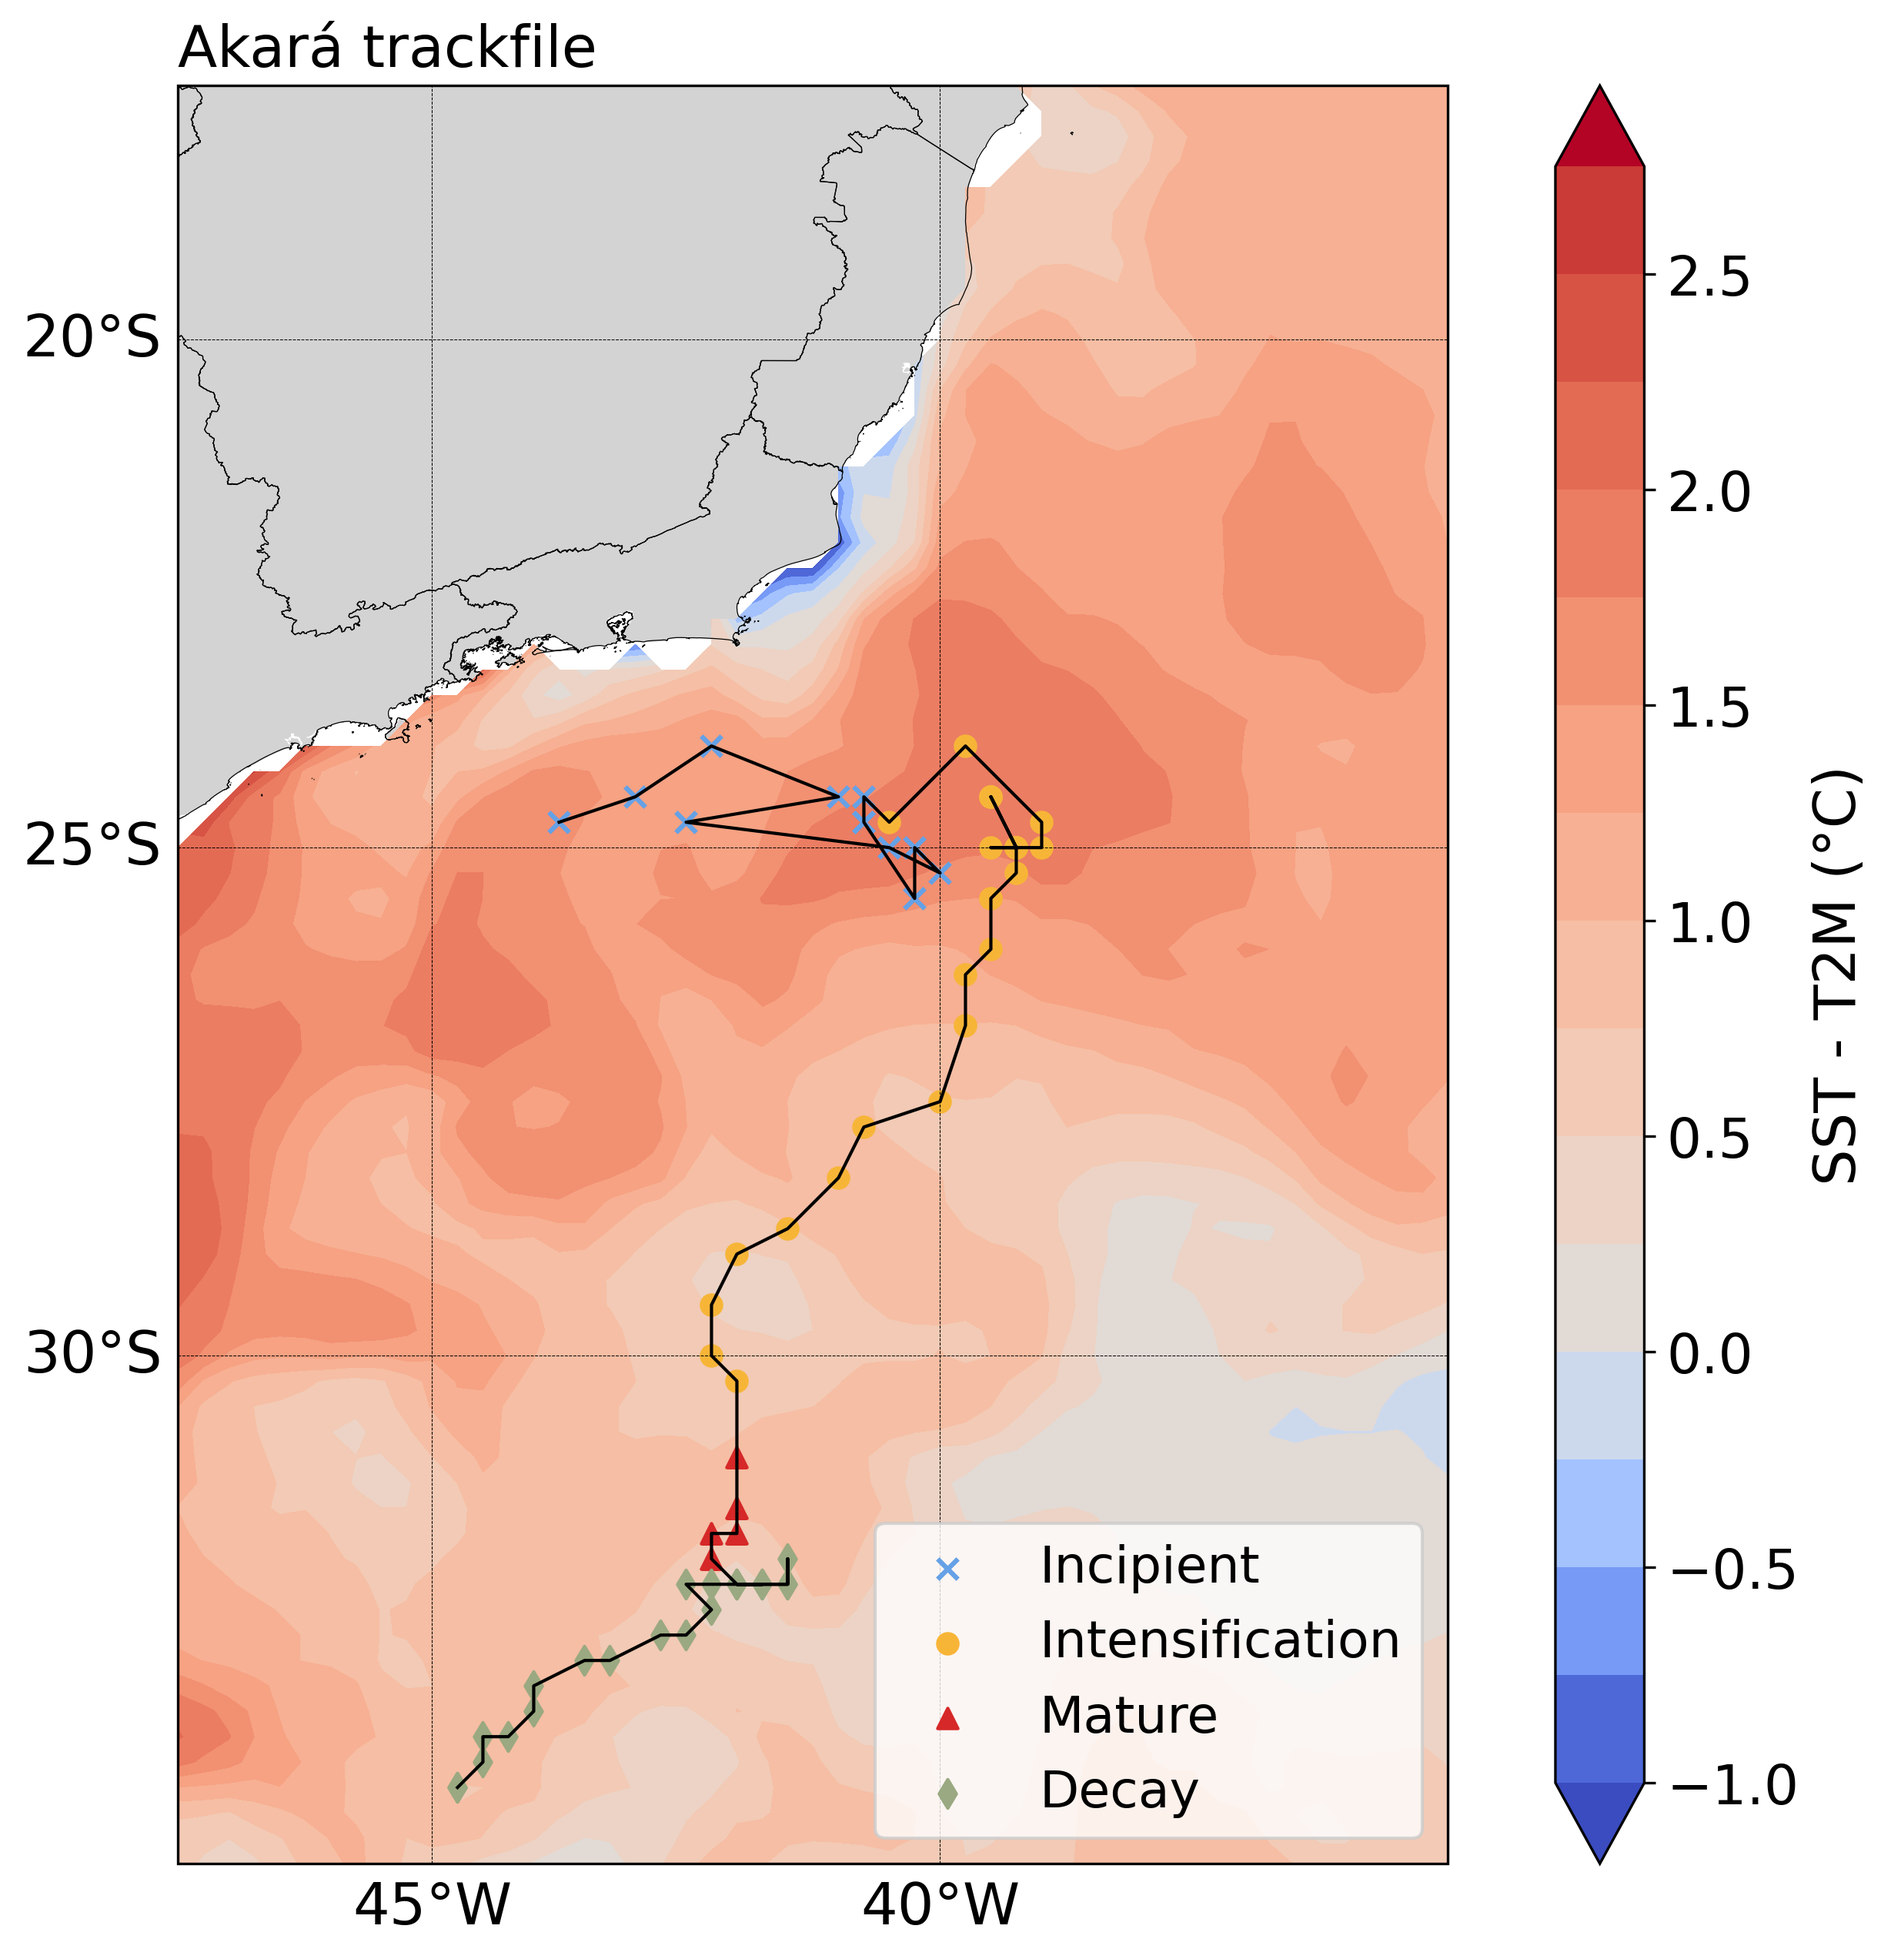
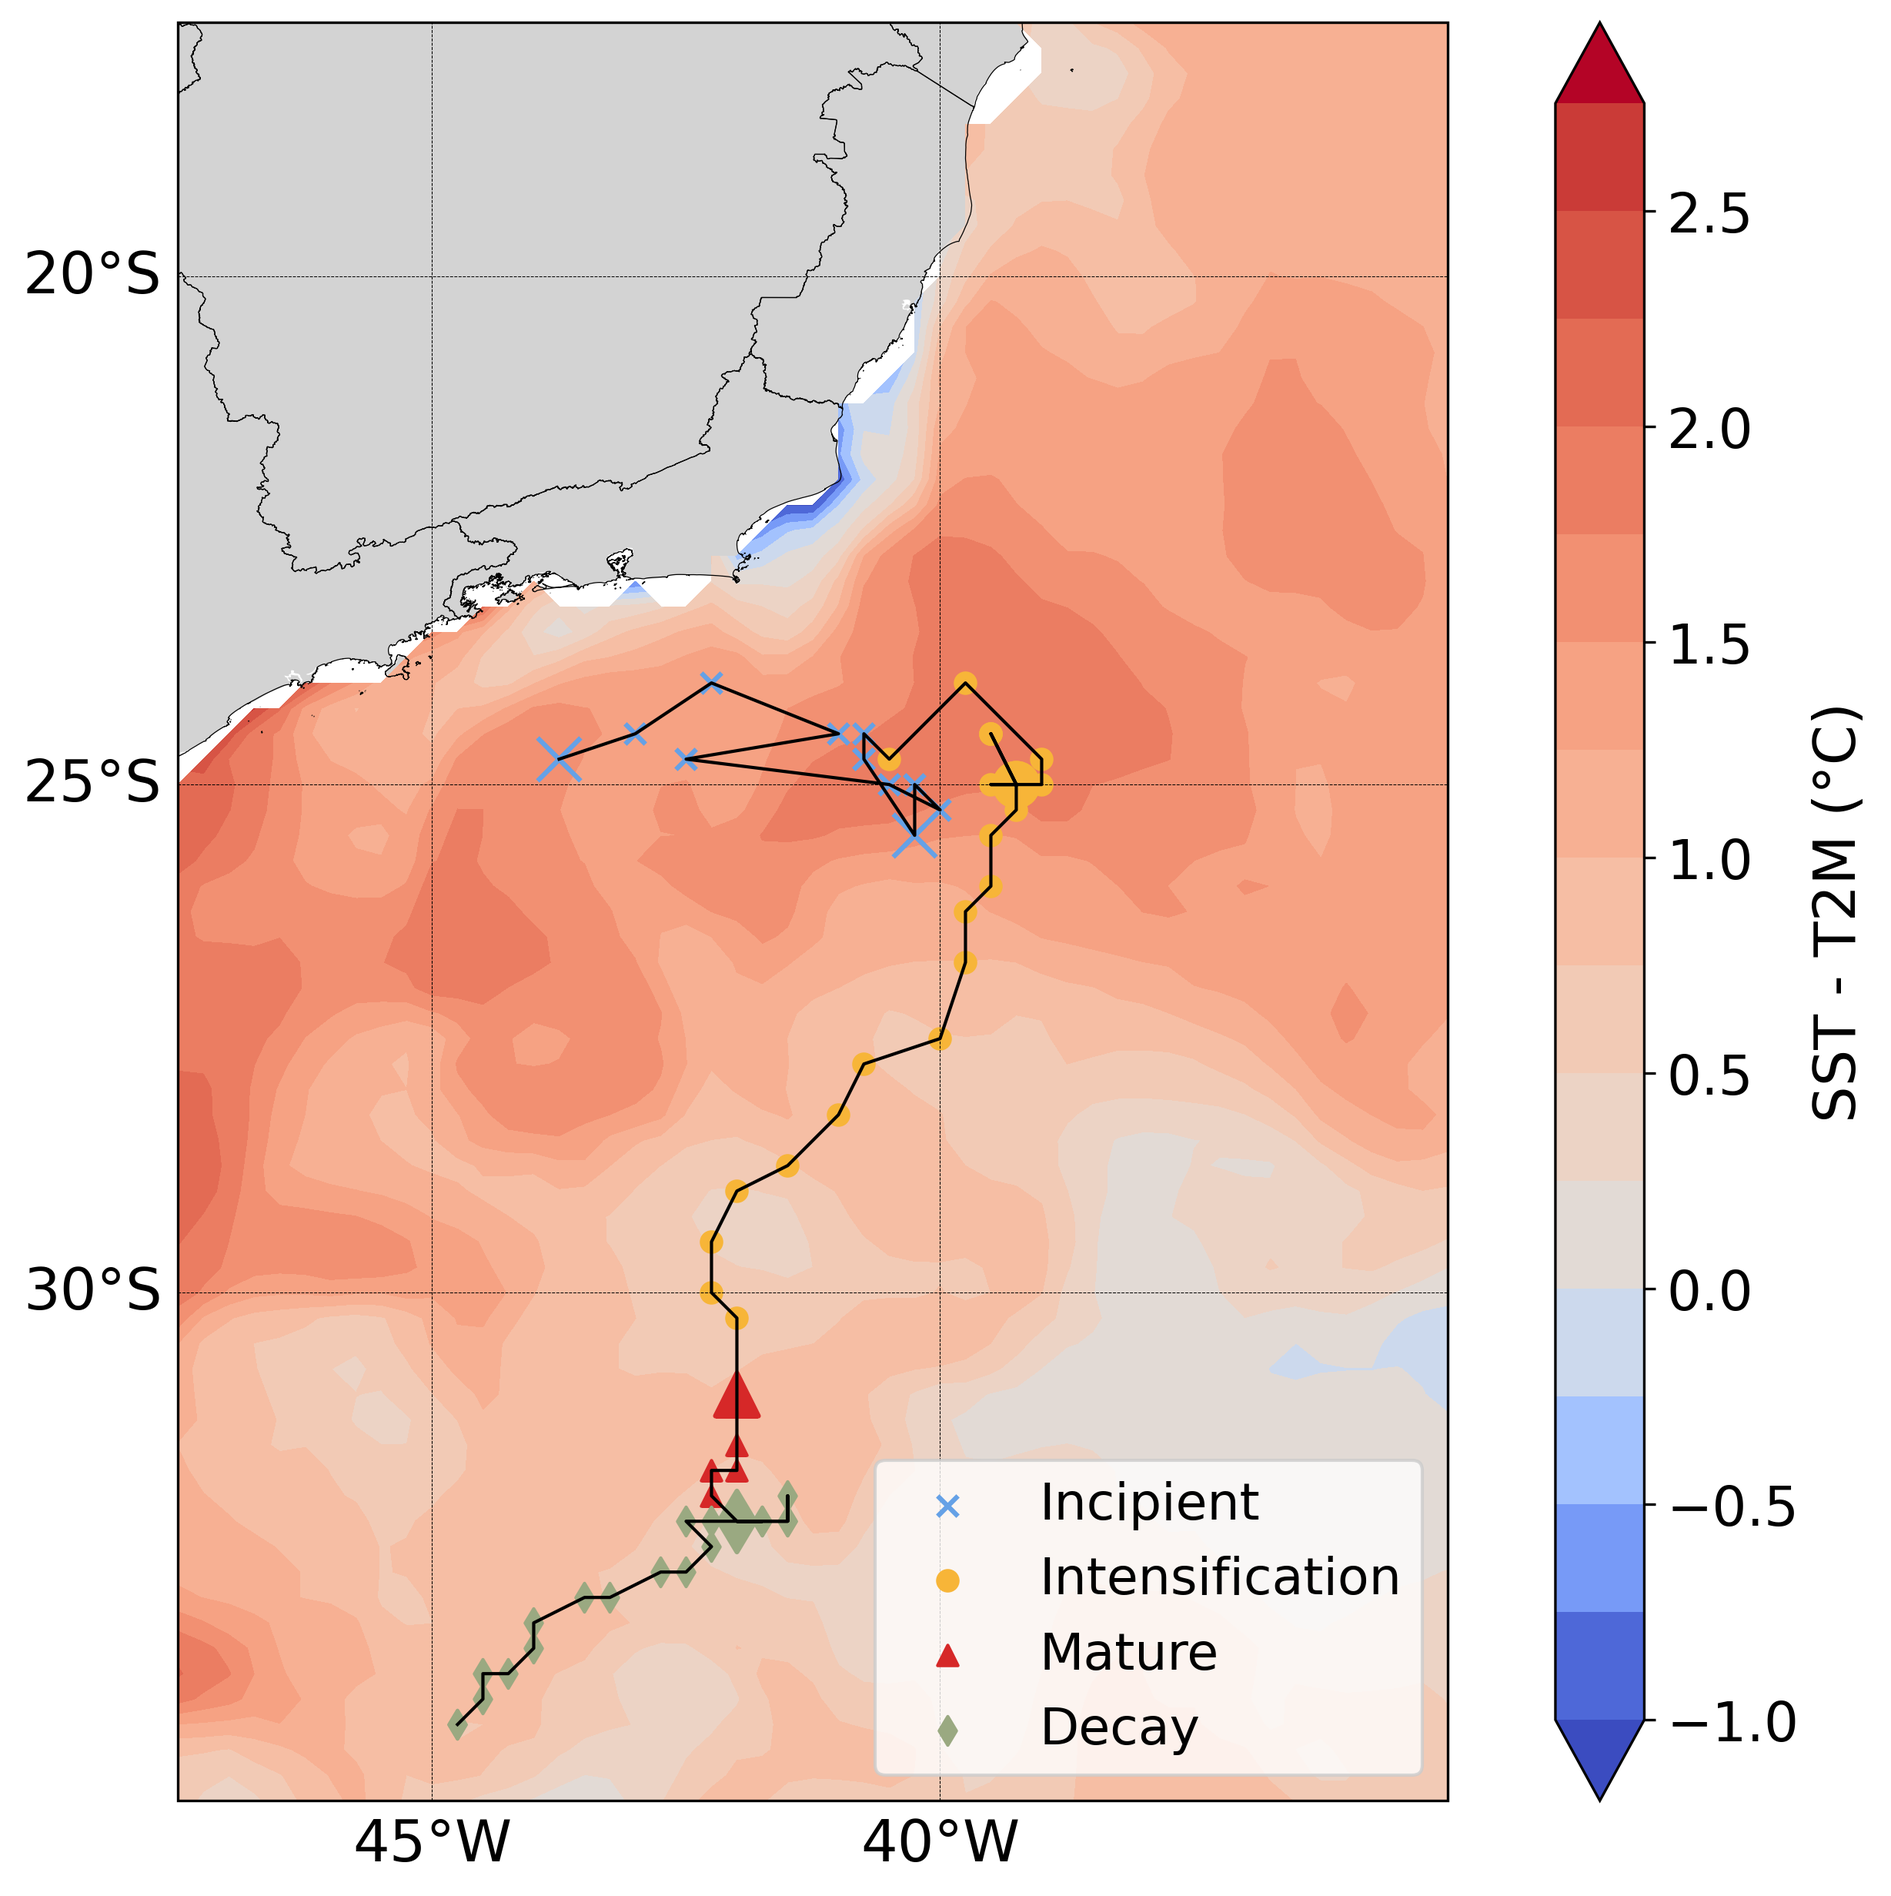
destaques

diff --git a/Akara/FIGS/scripts/sst_track2.py b/Akara/FIGS/scripts/sst_track2.py
@@ -10,7 +10,7 @@ import matplotlib.colors as mcolors
 
 # Diretórios de dados e figuras
 DIRDADO = '/home/victor/USP/sinotica3/ATMOS-BUD/dados/'
-DIRFIG = '/home/victor/USP/sinotica3/ATMOS-BUD_Results/Akara/Charts/mean_sst/'
+DIRFIG = '/home/victor/USP/sinotica3/ATMOS-BUD_Results/Akara/FIGS/Specific_Figures/sst_t2m/'
 DIRSHAPE = '/home/victor/USP/sat_goes/shapefile/BR_UF_2019.shp'
 DIRCSV2 = '/home/victor/USP/sinotica3/ATMOS-BUD_Results/Akara/Charts/csv_files/'
 
@@ -72,8 +72,7 @@ norm = mcolors.TwoSlopeNorm(vmin=-1, vcenter=0, vmax=3)
 
 # Contorno da diferença de temperatura (SST - T2M)
 levels = np.arange(-1, 3, 0.25)
-img = ax.contourf(lon, lat, dif_temperatura, levels=levels, transform=ccrs.PlateCarree(),
-                  cmap='coolwarm', norm=norm, extend='both')
+img = ax.contourf(lon, lat,dif_temperatura , cmap='turbo', levels=levels, transform=ccrs.PlateCarree(), norm=norm, extend='both')
 
 # Adicionar barra de cores
 cb = plt.colorbar(img, ax=ax, orientation='vertical', pad=0.05, shrink=1, aspect=20)
@@ -88,12 +87,21 @@ for phase in df2['phase'].unique():
     phase_data = df2[df2['phase'] == phase]
     ax.scatter(phase_data['Lon'], phase_data['Lat'], transform=ccrs.PlateCarree(),
                color=colors[phase], marker=symbols[phase], s=40, label=f'{phase}', linestyle='-')
+datas_destaque = ["202402142100", "202402152100", "202402162100",
+                   "202402172100", "202402191500", "202402201200"]
 
+df2['time'] = df2['time'].astype(str)
+
+# Filtre os dados de destaque
+destaques = df2[df2['time'].isin(datas_destaque)]
+
+for phase in destaques['phase'].unique():
+    destaque_data = destaques[destaques['phase'] == phase]
+    ax.scatter(destaque_data['Lon'], destaque_data['Lat'], transform=ccrs.PlateCarree(),
+               color=colors[phase], marker=symbols[phase], s=180, linewidth=1.5)
 # Adicionar legenda
 ax.legend(loc='lower right', fontsize=16)
 
-# Título do gráfico
-plt.title('Akará trackfile', loc='left', fontsize=18)
 
 # Salvar e exibir o gráfico
 plt.savefig(f'{DIRFIG}Akara_mean_sst_t2m_track.png', dpi=300, bbox_inches='tight')
